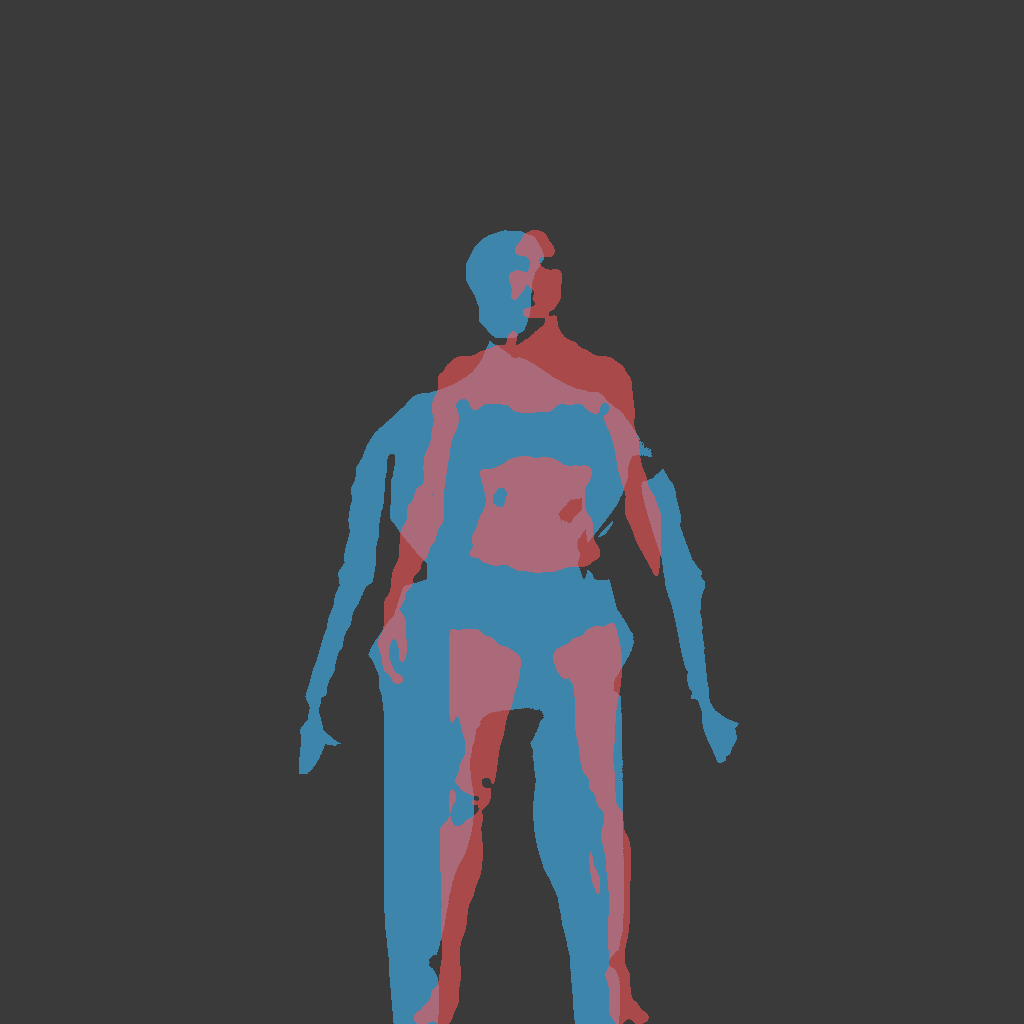
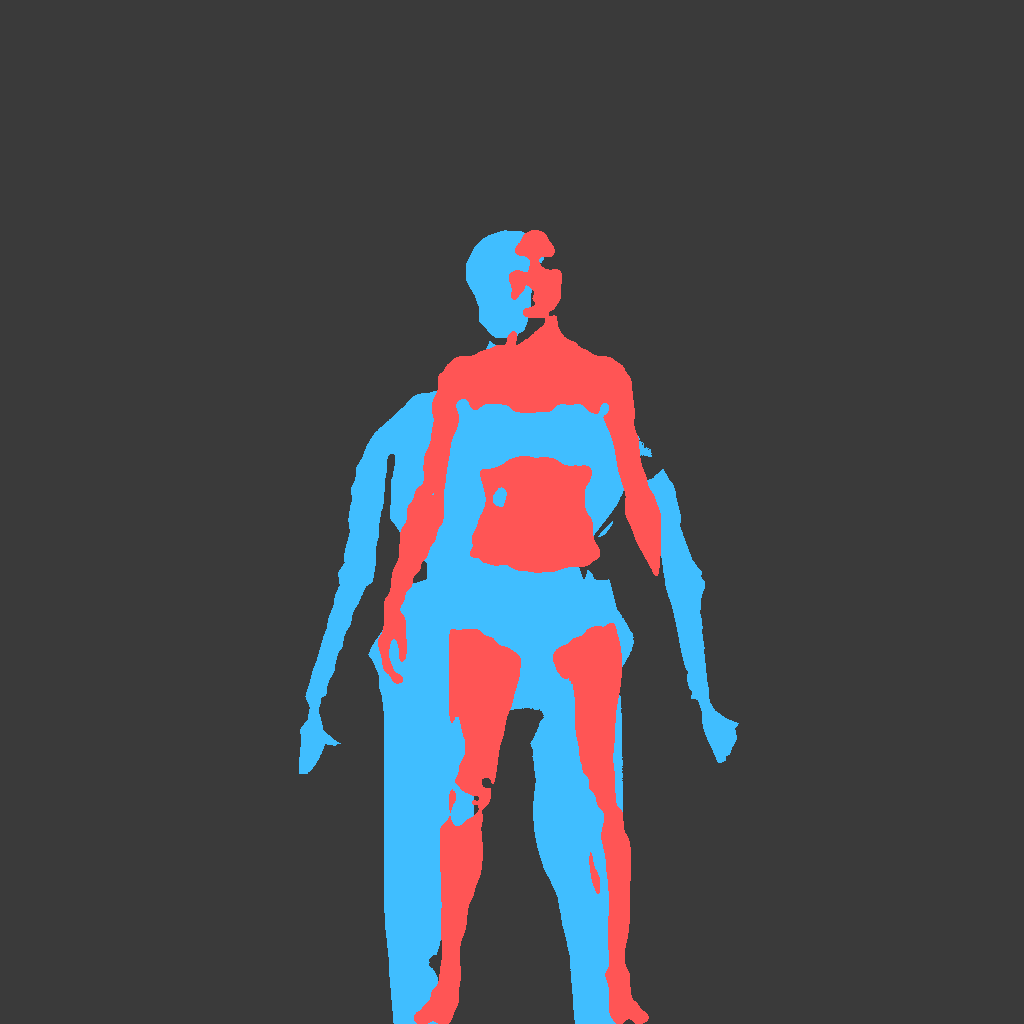
tools: commit deterministic character comparison builder

Changed region(s): [[0.2812, 0.2188, 0.7188, 1.0]]

diff --git a/tools/build_character_comparisons.py b/tools/build_character_comparisons.py
@@ -1,0 +1,36 @@
+"""Build deterministic front/side evidence comparisons.
+
+The validated reference image is aligned to the evaluated evidence render by
+uniform scale and translation only. Component masks are used only to locate
+the measurable colored reference pixels; they are never presented as a full
+body silhouette or used to infer hidden anatomy.
+"""
+from pathlib import Path
+from PIL import Image, ImageDraw
+
+ROOT=Path(__file__).resolve().parents[1]
+OUT=ROOT/'docs/character_visuals/final_comparison'
+
+def mask(im, threshold):
+    return im.convert('L').point(lambda p: 255 if p > threshold else 0)
+
+for gender in ('male','female'):
+    for view in ('front','side'):
+        result=Image.open(OUT/f'{gender}_armsdown_{view}.png').convert('RGB')
+        reference=Image.open(OUT/f'validated_reference_{gender}_{view}.png').convert('RGB')
+        result_mask=mask(result,115); ref_mask=mask(reference,100)
+        rb=result_mask.getbbox(); fb=ref_mask.getbbox()
+        if not rb or not fb: raise SystemExit(f'FAIL: missing measurable body bounds {gender}/{view}')
+        scale=(rb[3]-rb[1])/float(fb[3]-fb[1])
+        reference=reference.resize((round(reference.width*scale),round(reference.height*scale)),Image.Resampling.LANCZOS)
+        ref_mask=mask(reference,100); fb=ref_mask.getbbox()
+        dx=round((rb[0]+rb[2])/2-(fb[0]+fb[2])/2); dy=round(rb[1]-fb[1])
+        aligned=Image.new('RGB',result.size,(58,58,58)); alpha=Image.new('L',result.size,0)
+        aligned.paste(reference,(dx,dy),ref_mask); alpha.paste(ref_mask,(dx,dy))
+        aligned.save(OUT/f'clean_reference_{gender}_{view}.png')
+        overlay=Image.new('RGB',result.size,(58,58,58)); overlay.paste((64,190,255),(0,0,result.width,result.height),result_mask); overlay.paste((255,85,85),(0,0,result.width,result.height),alpha)
+        overlay.save(OUT/f'clean_overlay_{gender}_{view}.png')
+        thumb=lambda im: im.resize((512,512),Image.Resampling.LANCZOS)
+        sheet=Image.new('RGB',(1536,512),(30,30,30)); sheet.paste(thumb(aligned),(0,0)); sheet.paste(thumb(result),(512,0)); sheet.paste(thumb(overlay),(1024,0))
+        draw=ImageDraw.Draw(sheet); draw.text((16,16),f'{gender} {view} CLEAN REFERENCE',fill='white'); draw.text((528,16),'ARMS-DOWN EVALUATED ARMATURE',fill='white'); draw.text((1040,16),'50% OVERLAY',fill='white')
+        sheet.save(OUT/f'clean_comparison_{gender}_{view}.png')
